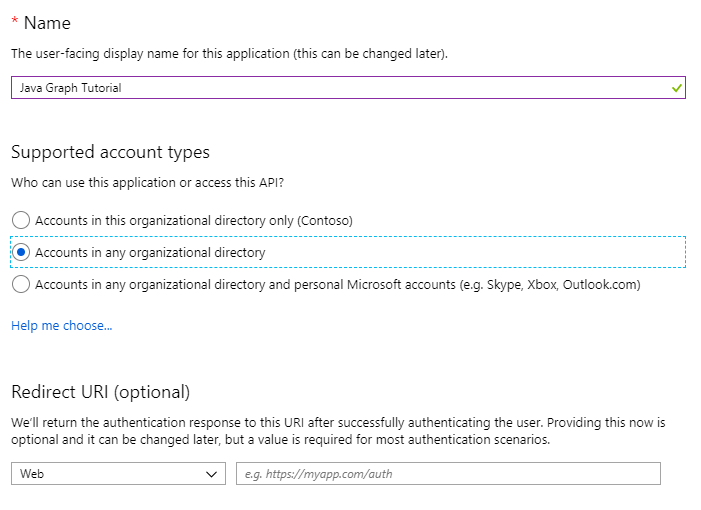
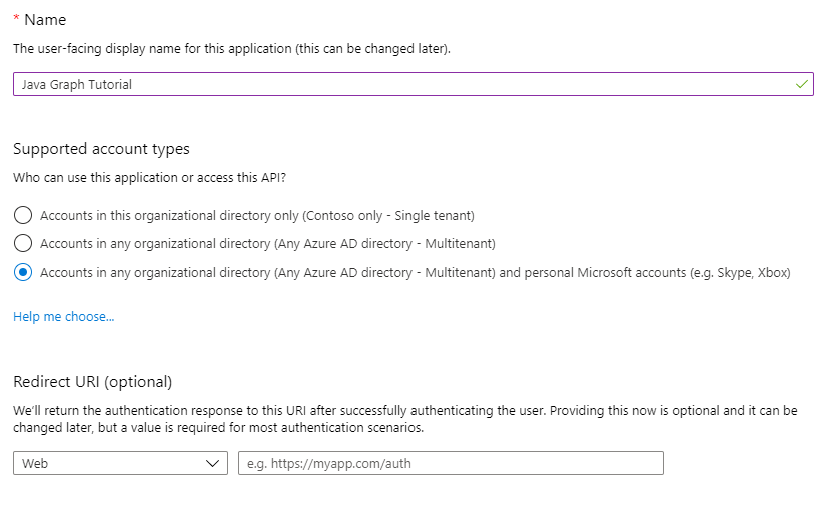
Updated tutorial with latest MSAL and Graph SDK
Now that Microsoft Identity platform supports using device code flow with personal accounts, update the project to enable this.

diff --git a/demos/02-add-aad-auth/graphtutorial/src/main/java/com/contoso/Authentication.java b/demos/02-add-aad-auth/graphtutorial/src/main/java/com/contoso/Authentication.java
@@ -18,7 +18,7 @@ public class Authentication {
     private static String applicationId = null;
     // Set authority to allow only organizational accounts
     // Device code flow only supports organizational accounts
-    private final static String authority = "https://login.microsoftonline.com/organizations/";
+    private final static String authority = "https://login.microsoftonline.com/common/";
 
     public static void initialize(String applicationId) {
         Authentication.applicationId = applicationId;

diff --git a/demos/03-add-msgraph/graphtutorial/src/main/java/com/contoso/Authentication.java b/demos/03-add-msgraph/graphtutorial/src/main/java/com/contoso/Authentication.java
@@ -18,7 +18,7 @@ public class Authentication {
     private static String applicationId = null;
     // Set authority to allow only organizational accounts
     // Device code flow only supports organizational accounts
-    private final static String authority = "https://login.microsoftonline.com/organizations/";
+    private final static String authority = "https://login.microsoftonline.com/common/";
 
     public static void initialize(String applicationId) {
         Authentication.applicationId = applicationId;

diff --git a/demos/03-add-msgraph/graphtutorial/src/main/java/com/contoso/App.java b/demos/03-add-msgraph/graphtutorial/src/main/java/com/contoso/App.java
@@ -71,6 +71,7 @@ public class App {
                 case 1:
                     // Display access token
                     System.out.println("Access token: " + accessToken);
+                    break;
                 case 2:
                     // List the calendar
                     listCalendarEvents(accessToken);

diff --git a/demos/02-add-aad-auth/graphtutorial/src/main/java/com/contoso/App.java b/demos/02-add-aad-auth/graphtutorial/src/main/java/com/contoso/App.java
@@ -58,6 +58,7 @@ public class App {
                 case 1:
                     // Display access token
                     System.out.println("Access token: " + accessToken);
+                    break;
                 case 2:
                     // List the calendar
                     break;

diff --git a/demos/01-create-app/graphtutorial/src/main/java/com/contoso/App.java b/demos/01-create-app/graphtutorial/src/main/java/com/contoso/App.java
@@ -39,6 +39,7 @@ public class App {
                     break;
                 case 1:
                     // Display access token
+                    break;
                 case 2:
                     // List the calendar
                     break;

diff --git a/tutorial/04-add-aad-auth.md b/tutorial/04-add-aad-auth.md
@@ -2,7 +2,7 @@
 
 In this exercise you will extend the application from the previous exercise to support authentication with Azure AD. This is required to obtain the necessary OAuth access token to call the Microsoft Graph. In this step you will integrate the [Microsoft Authentication Library (MSAL) for Java](https://github.com/AzureAD/microsoft-authentication-library-for-java) into the application.
 
-Create a new file in the **./graphtutorial/src/main/java/com/contoso** directory named **oAuth.properties**. Add the following text in that file.
+Create a new directory named **resources** in the **./graphtutorial/src/main** directory. Then create a new directory named **com** in the **resources** directory, then a new directory named **contoso** in the **com** directory. Finally, create a new file in the **./graphtutorial/src/main/resources/com/contoso** directory named **oAuth.properties**, and add the following text in that file.
 
 ```INI
 app.id=YOUR_APP_ID_HERE
@@ -60,7 +60,7 @@ public class Authentication {
     private static String applicationId;
     // Set authority to allow only organizational accounts
     // Device code flow only supports organizational accounts
-    private final static String authority = "https://login.microsoftonline.com/organizations/";
+    private final static String authority = "https://login.microsoftonline.com/common/";
 
     public static void initialize(String applicationId) {
         Authentication.applicationId = applicationId;

diff --git a/tutorial/02-create-app.md b/tutorial/02-create-app.md
@@ -34,13 +34,13 @@ Open **./graphtutorial/pom.xml**. Add the following inside the `<dependencies>` 
 <dependency>
   <groupId>com.microsoft.graph</groupId>
   <artifactId>microsoft-graph</artifactId>
-  <version>1.4.0</version>
+  <version>1.6.0</version>
 </dependency>
 
 <dependency>
   <groupId>com.microsoft.azure</groupId>
   <artifactId>msal4j</artifactId>
-  <version>0.4.0-preview</version>
+  <version>1.1.0</version>
 </dependency>
 ```
 
@@ -90,6 +90,7 @@ public class App {
                     break;
                 case 1:
                     // Display access token
+                    break;
                 case 2:
                     // List the calendar
                     break;

diff --git a/tutorial/03-register-app.md b/tutorial/03-register-app.md
@@ -11,7 +11,7 @@ In this exercise you will create a new Azure AD application using the Azure Acti
 1. Select **New registration**. On the **Register an application** page, set the values as follows.
 
     - Set **Name** to `Java Graph Tutorial`.
-    - Set **Supported account types** to **Accounts in any organizational directory**.
+    - Set **Supported account types** to **Accounts in any organizational directory and personal Microsoft accounts**.
     - Leave **Redirect URI** empty.
 
     ![A screenshot of the Register an application page](./images/aad-register-an-app.png)
